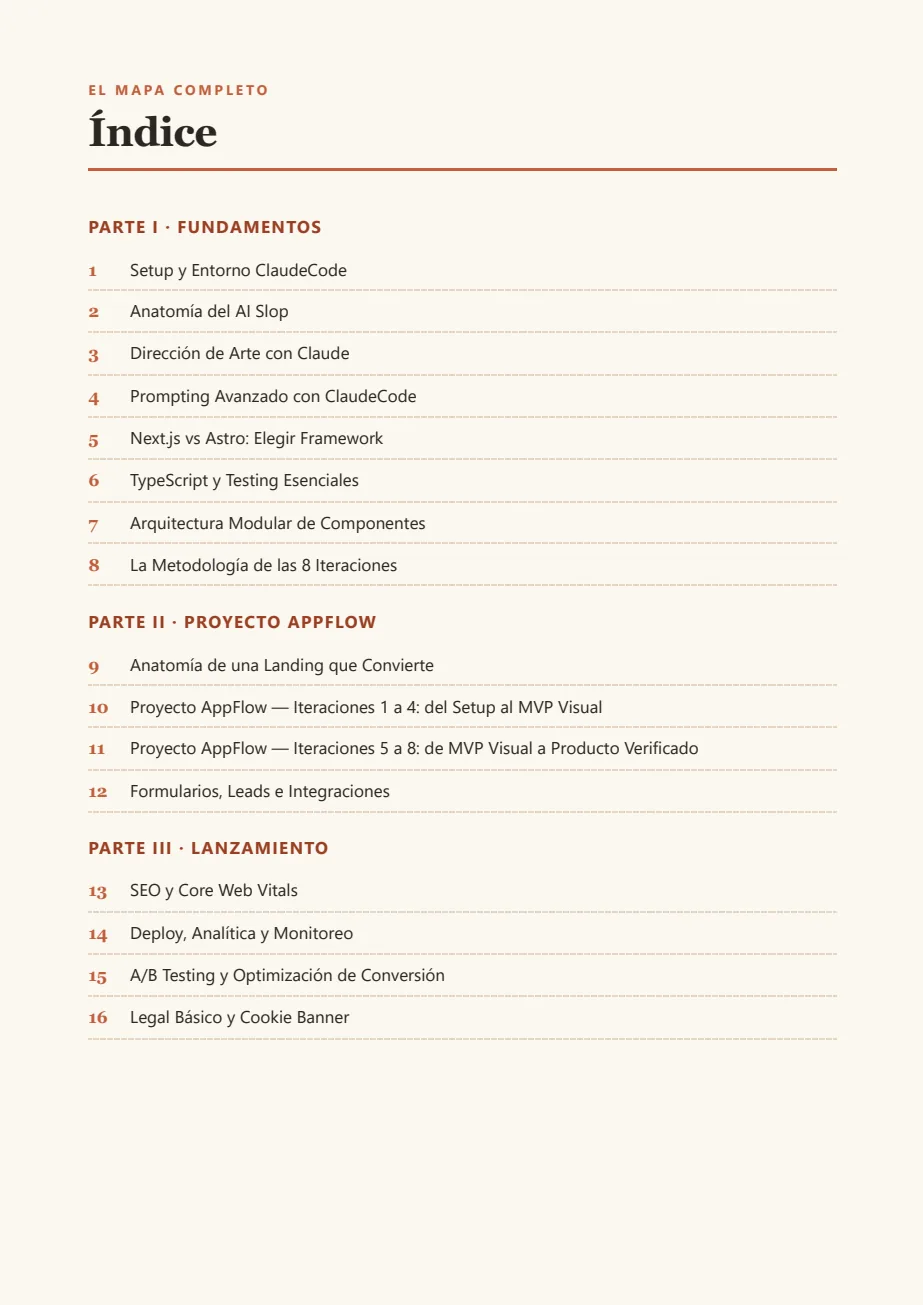
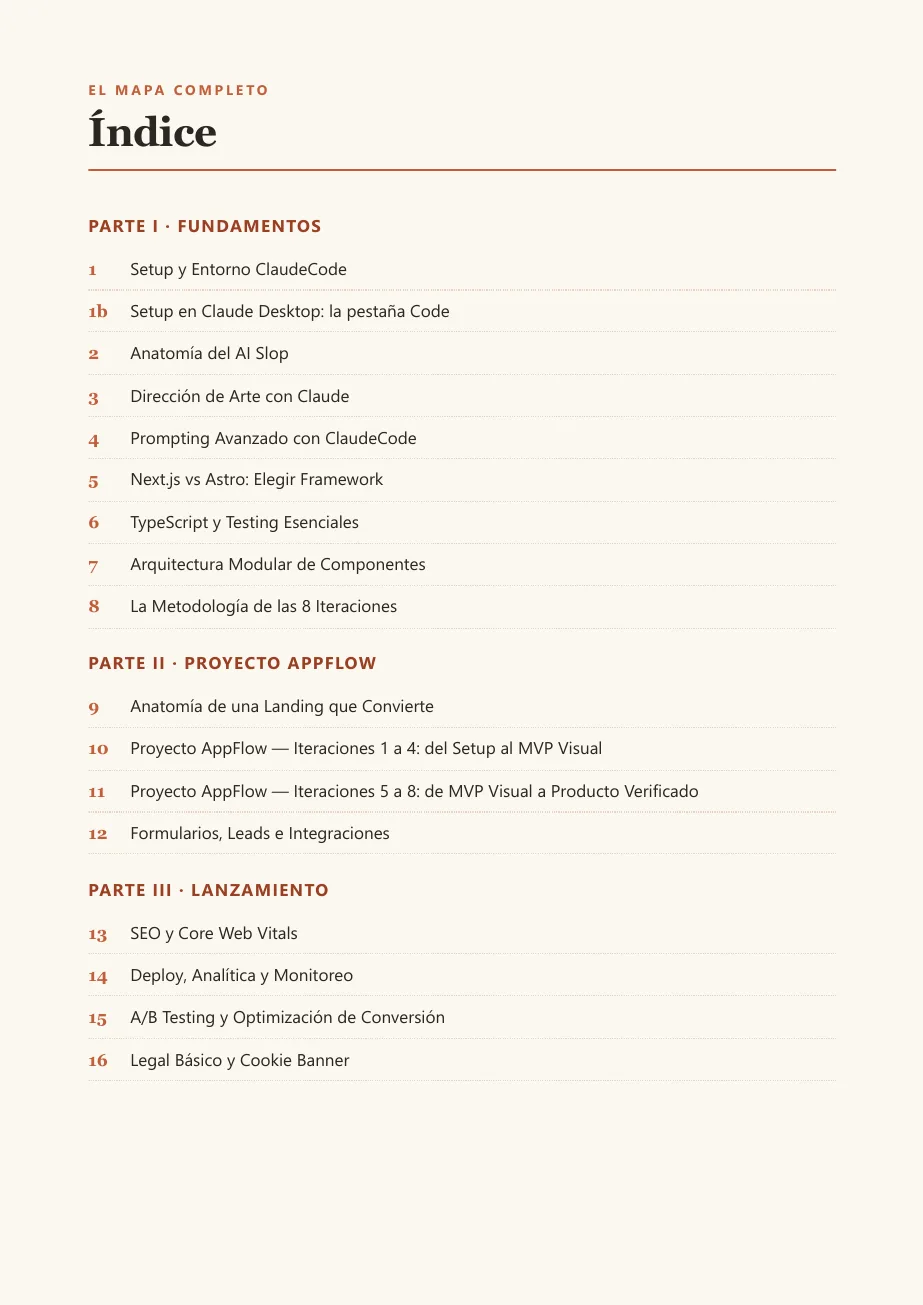
feat: actualiza fichas de ebooks a la edición con app de escritorio
Los siete ebooks incorporan la app de escritorio de Claude (pestaña Code,
Cowork, tareas programadas) en la edición de noviembre de 2026. Cambian
páginas y capítulos, así que las fichas, los combos y las estadísticas
del teatro de producto quedaban desfasados.

- Páginas: De Cero 190, Experto 73, Agentes 146, Webs 81/123/138/125.
- Capítulos: De Cero 26, Agentes 22, Webs 17/22/24/22.
- Combos recalculados (467, 263, 336 y 271 páginas).
- Vistas previas del índice regeneradas desde los PDF nuevos
  (De Cero, Webs parte 1 y Agentes).

diff --git a/lib/ebook-product-theater.ts b/lib/ebook-product-theater.ts
@@ -20,8 +20,8 @@ export type EbookProductTheaterContent = {
 export const EBOOK_PRODUCT_THEATER_CONTENT: Record<string, EbookProductTheaterContent> = {
   "ebook:de-cero-a-claude-en-una-semana": {
     stats: [
-      { value: "150+", label: "páginas" },
-      { value: "25", label: "capítulos" },
+      { value: "190", label: "páginas" },
+      { value: "26", label: "capítulos" },
       { value: "4", label: "niveles" },
       { value: "1", label: "ruta completa" },
     ],
@@ -31,7 +31,7 @@ export const EBOOK_PRODUCT_THEATER_CONTENT: Record<string, EbookProductTheaterCo
       description: "El contenido avanza desde los fundamentos de Claude.ai hasta Claude Code, agentes y API, con explicaciones prácticas y puntos de verificación.",
     },
     previews: [
-      { src: "/ebooks/previews/de-cero-claude/mapa.webp", alt: "Página real del índice de De cero a Claude en una semana", label: "El mapa completo", detail: "25 capítulos ordenados en cuatro niveles.", width: 923, height: 1305 },
+      { src: "/ebooks/previews/de-cero-claude/mapa.webp", alt: "Página real del índice de De cero a Claude en una semana", label: "El mapa completo", detail: "26 capítulos ordenados en cuatro niveles.", width: 923, height: 1305 },
       { src: "/ebooks/previews/de-cero-claude/claude-code.webp", alt: "Página real del capítulo Empezar con Claude Code", label: "Del navegador a la terminal", detail: "Instalación, requisitos y primera ejecución.", width: 923, height: 1305 },
       { src: "/ebooks/previews/de-cero-claude/api.webp", alt: "Página real del capítulo sobre la API de Claude", label: "Construir con Claude", detail: "API, streaming, herramientas, visión y SDKs.", width: 923, height: 1305 },
       { src: "/ebooks/previews/de-cero-claude/troubleshooting.webp", alt: "Página real de troubleshooting y mejores prácticas", label: "Resolver con criterio", detail: "Errores, límites, costes y buenas prácticas.", width: 923, height: 1305 },
@@ -54,7 +54,7 @@ export const EBOOK_PRODUCT_THEATER_CONTENT: Record<string, EbookProductTheaterCo
   },
   "ebook:claude-nivel-experto": {
     stats: [
-      { value: "71", label: "páginas" },
+      { value: "73", label: "páginas" },
       { value: "12", label: "capítulos" },
       { value: "3", label: "bonos" },
       { value: "16", label: "prompts" },
@@ -88,8 +88,8 @@ export const EBOOK_PRODUCT_THEATER_CONTENT: Record<string, EbookProductTheaterCo
   },
   "ebook:agentes-de-ia": {
     stats: [
-      { value: "137", label: "páginas" },
-      { value: "21", label: "capítulos" },
+      { value: "146", label: "páginas" },
+      { value: "22", label: "capítulos" },
       { value: "7", label: "partes" },
       { value: "1", label: "caso completo" },
     ],
@@ -122,8 +122,8 @@ export const EBOOK_PRODUCT_THEATER_CONTENT: Record<string, EbookProductTheaterCo
   },
   "ebook:creacion-de-webs-con-ia": {
     stats: [
-      { value: "70", label: "páginas" },
-      { value: "16", label: "capítulos" },
+      { value: "81", label: "páginas" },
+      { value: "17", label: "capítulos" },
       { value: "3", label: "partes" },
       { value: "1", label: "proyecto real" },
     ],
@@ -133,7 +133,7 @@ export const EBOOK_PRODUCT_THEATER_CONTENT: Record<string, EbookProductTheaterCo
       description: "Cada parte convierte una decisión abstracta en un paso ejecutable: qué pedir, qué revisar y cómo saber si el resultado está listo para avanzar.",
     },
     previews: [
-      { src: "/ebooks/previews/creacion-webs/indice.webp", alt: "Página real del índice del ebook Creación de Webs con IA", label: "El mapa completo", detail: "16 capítulos organizados en tres partes.", width: 923, height: 1305 },
+      { src: "/ebooks/previews/creacion-webs/indice.webp", alt: "Página real del índice del ebook Creación de Webs con IA", label: "El mapa completo", detail: "17 capítulos organizados en tres partes.", width: 923, height: 1305 },
       { src: "/ebooks/previews/creacion-webs/metodologia-8-iteraciones.webp", alt: "Página real sobre la metodología de ocho iteraciones del ebook", label: "Un método ejecutable", detail: "Ocho fases con checkpoints y verificación.", width: 923, height: 1305 },
       { src: "/ebooks/previews/creacion-webs/proyecto-appflow.webp", alt: "Página real del proyecto AppFlow desarrollado en el ebook", label: "Código y decisiones reales", detail: "AppFlow pasa del setup al MVP visual.", width: 923, height: 1305 },
       { src: "/ebooks/previews/creacion-webs/seo-core-web-vitals.webp", alt: "Página real del capítulo de SEO y Core Web Vitals del ebook", label: "Lanzamiento verificable", detail: "SEO, rendimiento y métricas explicadas con criterio.", width: 923, height: 1305 },

diff --git a/lib/web-ebook-series.ts b/lib/web-ebook-series.ts
@@ -23,7 +23,7 @@ export const WEB_EBOOK_PARTS: Record<string, WebEbookPart> = {
     eyebrow: "Ebook · CrececonIA · Colección Web · Parte 2",
     title: "Sitios Corporativos",
     titleAccent: "con IA.",
-    description: "Construye sitios corporativos completos con Astro, CMS y multi-idioma. 113 páginas y un proyecto real con Ardenza.",
+    description: "Construye sitios corporativos completos con Astro, CMS y multi-idioma. 123 páginas y un proyecto real con Ardenza.",
     introTitle: "El sitio que el cliente puede editar solo.",
     intro: "Parte 2 toma la metodología de construcción con IA y la lleva a sitios corporativos reales: arquitectura de información, contenido editable, SEO local, formularios, migraciones y entrega profesional.",
     stats: [
@@ -32,7 +32,7 @@ export const WEB_EBOOK_PARTS: Record<string, WebEbookPart> = {
       { value: "4", label: "partes" },
       { value: "1", label: "proyecto real" },
     ],
-    tocTitle: "21 capítulos para pasar de una referencia a un sitio corporativo que se puede mantener.",
+    tocTitle: "22 capítulos para pasar de una referencia a un sitio corporativo que se puede mantener.",
     sections: [
       { heading: "Parte I · Fundamentos", chapters: [
         { title: "Setup y dirección de arte", desc: "Configura el entorno y define una marca con criterio antes de generar componentes." },
@@ -74,7 +74,7 @@ export const WEB_EBOOK_PARTS: Record<string, WebEbookPart> = {
     eyebrow: "Ebook · CrececonIA · Colección Web · Parte 3",
     title: "eCommerce",
     titleAccent: "con IA.",
-    description: "Construye una tienda online con catálogo, carrito, checkout y pagos reales usando Next.js y ClaudeCode. 129 páginas y un proyecto real.",
+    description: "Construye una tienda online con catálogo, carrito, checkout y pagos reales usando Next.js y ClaudeCode. 138 páginas y un proyecto real.",
     introTitle: "Los flujos donde un bug cuesta dinero.",
     intro: "Parte 3 documenta la construcción de TechStore: catálogo, filtros, carrito, checkout, inventario, pagos, webhooks, emails, métricas y operación de una tienda que debe funcionar de verdad.",
     stats: [
@@ -83,7 +83,7 @@ export const WEB_EBOOK_PARTS: Record<string, WebEbookPart> = {
       { value: "4", label: "partes" },
       { value: "1", label: "proyecto real" },
     ],
-    tocTitle: "23 capítulos para construir una tienda, cobrar y operar después del lanzamiento.",
+    tocTitle: "24 capítulos para construir una tienda, cobrar y operar después del lanzamiento.",
     sections: [
       { heading: "Parte I · Fundamentos", chapters: [
         { title: "Setup, prompting y dirección de arte", desc: "Define el sistema visual y el entorno antes de entrar en los flujos de dinero." },
@@ -125,7 +125,7 @@ export const WEB_EBOOK_PARTS: Record<string, WebEbookPart> = {
     eyebrow: "Ebook · CrececonIA · Colección Web · Parte 4",
     title: "SaaS y Dashboards",
     titleAccent: "con IA.",
-    description: "Construye aplicaciones SaaS con autenticación, datos en vivo y multi-tenancy usando Next.js y ClaudeCode. 114 páginas y un proyecto real.",
+    description: "Construye aplicaciones SaaS con autenticación, datos en vivo y multi-tenancy usando Next.js y ClaudeCode. 125 páginas y un proyecto real.",
     introTitle: "Cuando una web se convierte en producto.",
     intro: "Parte 4 lleva la metodología a una aplicación con usuarios, roles, datos privados, dashboards, actualizaciones en tiempo real, límites y seguridad multi-tenant.",
     stats: [
@@ -134,7 +134,7 @@ export const WEB_EBOOK_PARTS: Record<string, WebEbookPart> = {
       { value: "3", label: "partes" },
       { value: "1", label: "proyecto real" },
     ],
-    tocTitle: "21 capítulos para pasar de una interfaz bonita a un producto SaaS seguro y operable.",
+    tocTitle: "22 capítulos para pasar de una interfaz bonita a un producto SaaS seguro y operable.",
     sections: [
       { heading: "Parte I · Fundamentos", chapters: [
         { title: "Setup y arquitectura de producto", desc: "Decide qué pertenece a una app SaaS y qué debe quedar fuera del MVP." },

diff --git a/lib/ebook-catalog.ts b/lib/ebook-catalog.ts
@@ -79,7 +79,7 @@ export const EBOOK_CATALOG: EbookCatalogEntry[] = [
     coverSrc: "/ebooks/de-cero-a-claude-en-una-semana.jpg",
     active: true,
     tierPrices: { superEarly: 10800, early: 17900, regular: 27000 },
-    storeProfile: { level: "Base", outcome: "Dominar Claude desde cero y usarlo con un método claro.", audience: "Si estás empezando o todavía lo usas como un chat.", pageCount: 150 },
+    storeProfile: { level: "Base", outcome: "Dominar Claude desde cero y usarlo con un método claro.", audience: "Si estás empezando o todavía lo usas como un chat.", pageCount: 190 },
     // Ya está en venta — sin visibleFrom, siempre visible.
   },
   {
@@ -90,7 +90,7 @@ export const EBOOK_CATALOG: EbookCatalogEntry[] = [
     coverSrc: "/ebooks/claude-nivel-experto.jpg",
     active: true,
     tierPrices: { superEarly: 9700, early: 13700, regular: 19700 },
-    storeProfile: { level: "Avanzado", outcome: "Pasar de conversar con Claude a operarlo con autonomía.", audience: "Si ya tienes experiencia y quieres profundizar.", pageCount: 71 },
+    storeProfile: { level: "Avanzado", outcome: "Pasar de conversar con Claude a operarlo con autonomía.", audience: "Si ya tienes experiencia y quieres profundizar.", pageCount: 73 },
     visibleFrom: LANZAMIENTO_2026_08_07,
   },
   {
@@ -101,7 +101,7 @@ export const EBOOK_CATALOG: EbookCatalogEntry[] = [
     coverSrc: "/ebooks/agentes-de-ia.jpg",
     active: true,
     tierPrices: { superEarly: 10800, early: 17900, regular: 27000 },
-    storeProfile: { level: "Negocio", outcome: "Diseñar agentes que automaticen trabajo real del negocio.", audience: "Si diriges un negocio y no quieres programar.", pageCount: 137 },
+    storeProfile: { level: "Negocio", outcome: "Diseñar agentes que automaticen trabajo real del negocio.", audience: "Si diriges un negocio y no quieres programar.", pageCount: 146 },
     visibleFrom: LANZAMIENTO_2026_08_07,
   },
   {
@@ -112,7 +112,7 @@ export const EBOOK_CATALOG: EbookCatalogEntry[] = [
     coverSrc: "/ebooks/creacion-de-webs-con-ia.jpg",
     active: true,
     tierPrices: { superEarly: 9700, early: 13700, regular: 19700 },
-    storeProfile: { level: "Constructor", outcome: "Diseñar y lanzar un sitio completo con IA paso a paso.", audience: "Si quieres construir una web mediante un proyecto real.", pageCount: 70 },
+    storeProfile: { level: "Constructor", outcome: "Diseñar y lanzar un sitio completo con IA paso a paso.", audience: "Si quieres construir una web mediante un proyecto real.", pageCount: 81 },
     visibleFrom: LANZAMIENTO_2026_08_07,
     series: { name: "Creación de Webs con IA", part: 1 },
   },
@@ -128,7 +128,7 @@ export const EBOOK_CATALOG: EbookCatalogEntry[] = [
       level: "Constructor",
       outcome: "Construir sitios corporativos editables, escalables y listos para clientes.",
       audience: "Si quieres crear sitios corporativos con Astro, CMS y contenido multi-idioma.",
-      pageCount: 113,
+      pageCount: 123,
     },
     visibleFrom: LANZAMIENTO_2026_08_07,
     series: { name: "Creación de Webs con IA", part: 2 },
@@ -145,7 +145,7 @@ export const EBOOK_CATALOG: EbookCatalogEntry[] = [
       level: "Constructor",
       outcome: "Construir un eCommerce completo con catálogo, carrito, checkout y pagos reales.",
       audience: "Si quieres desarrollar tiendas online con Next.js y validar flujos que involucran dinero.",
-      pageCount: 129,
+      pageCount: 138,
     },
     visibleFrom: LANZAMIENTO_2026_08_07,
     series: { name: "Creación de Webs con IA", part: 3 },
@@ -162,7 +162,7 @@ export const EBOOK_CATALOG: EbookCatalogEntry[] = [
       level: "Constructor",
       outcome: "Construir productos SaaS con autenticación, datos en vivo y multi-tenancy.",
       audience: "Si quieres pasar de una landing a una aplicación web con usuarios y datos reales.",
-      pageCount: 114,
+      pageCount: 125,
     },
     visibleFrom: LANZAMIENTO_2026_08_07,
     series: { name: "Creación de Webs con IA", part: 4 },

diff --git a/lib/ebook-bundles.ts b/lib/ebook-bundles.ts
@@ -122,7 +122,7 @@ export const EBOOK_BUNDLES: EbookBundle[] = [
   {
     slug: "coleccion-web",
     title: "Colección Web Completa",
-    pitch: "Las cuatro partes para construir sitios, tiendas y productos web con IA. 426 páginas de proyectos reales con descuento por colección.",
+    pitch: "Las cuatro partes para construir sitios, tiendas y productos web con IA. 467 páginas de proyectos reales con descuento por colección.",
     resources: [
       "ebook:creacion-de-webs-con-ia",
       "ebook:creacion-de-webs-con-ia-parte-2",
@@ -133,19 +133,19 @@ export const EBOOK_BUNDLES: EbookBundle[] = [
   {
     slug: "ruta-operador",
     title: "Ruta Operador",
-    pitch: "Dominar la herramienta de principio a fin. 245 páginas, la progresión más limpia del catálogo.",
+    pitch: "Dominar la herramienta de principio a fin. 263 páginas, la progresión más limpia del catálogo.",
     resources: ["ebook:de-cero-a-claude-en-una-semana", "ebook:claude-nivel-experto"],
   },
   {
     slug: "ruta-negocio",
     title: "Ruta Negocio",
-    pitch: "Para dueños de negocio, sin programar. 311 páginas de la base más su aplicación directa.",
+    pitch: "Para dueños de negocio, sin programar. 336 páginas de la base más su aplicación directa.",
     resources: ["ebook:de-cero-a-claude-en-una-semana", "ebook:agentes-de-ia"],
   },
   {
     slug: "ruta-constructor",
     title: "Ruta Constructor",
-    pitch: "Para quien quiere construir y lanzar sitios. 244 páginas, de los fundamentos al proyecto real.",
+    pitch: "Para quien quiere construir y lanzar sitios. 271 páginas, de los fundamentos al proyecto real.",
     resources: ["ebook:de-cero-a-claude-en-una-semana", "ebook:creacion-de-webs-con-ia"],
   },
   {

diff --git a/app/ebook/agentes-de-ia/page.tsx b/app/ebook/agentes-de-ia/page.tsx
@@ -86,7 +86,7 @@ const FAQS = [
   },
   {
     q: "¿Qué trae además de los capítulos?",
-    a: "21 capítulos en 7 partes, 7 anexos, y un caso de negocio completo documentado de punta a punta.",
+    a: "22 capítulos en 7 partes, 7 anexos, y un caso de negocio completo documentado de punta a punta.",
   },
   {
     q: "¿En qué formato viene?",
@@ -149,7 +149,7 @@ export default async function AgentesDeIAPage({
         eyebrow="Ebook · CrececonIA · Aplicación al negocio"
         title="Agentes de IA"
         titleAccent="para tu negocio."
-        description="Automatiza tareas con agentes inteligentes que aprenden a trabajar por ti dentro de Claude. 137 páginas, para dueños de negocio, sin programar."
+        description="Automatiza tareas con agentes inteligentes que aprenden a trabajar por ti dentro de Claude. 146 páginas, para dueños de negocio, sin programar."
         coverSrc={entry.coverSrc}
         coverAlt="Portada del ebook Agentes de IA para tu Negocio"
       />
@@ -186,7 +186,7 @@ export default async function AgentesDeIAPage({
       />
 
       <EbookGenericTOC
-        title={<>7 partes, 21 capítulos,{" "}<em style={{ fontStyle: "italic" }}>un caso real de punta a punta.</em></>}
+        title={<>7 partes, 22 capítulos,{" "}<em style={{ fontStyle: "italic" }}>un caso real de punta a punta.</em></>}
         sections={SECTIONS}
       />
 

diff --git a/app/ebook/creacion-de-webs-con-ia/page.tsx b/app/ebook/creacion-de-webs-con-ia/page.tsx
@@ -131,7 +131,7 @@ export default async function CreacionDeWebsConIAPage({
         eyebrow="Ebook · CrececonIA · Vertical técnica · Parte 1"
         title="Creación de Webs"
         titleAccent="con IA."
-        description="Una metodología de ocho iteraciones para diseñar, construir y publicar una web con Claude Code. 70 páginas y un proyecto real, desde el setup hasta el lanzamiento."
+        description="Una metodología de ocho iteraciones para diseñar, construir y publicar una web con Claude Code. 81 páginas y un proyecto real, desde el setup hasta el lanzamiento."
         coverSrc={entry.coverSrc}
         coverAlt="Portada del ebook Creación de Webs con IA"
       />
@@ -170,7 +170,7 @@ export default async function CreacionDeWebsConIAPage({
       />
 
       <EbookGenericTOC
-        title={<>16 capítulos, 3 partes,{" "}<em style={{ fontStyle: "italic" }}>un proyecto real de punta a punta.</em></>}
+        title={<>17 capítulos, 3 partes,{" "}<em style={{ fontStyle: "italic" }}>un proyecto real de punta a punta.</em></>}
         sections={SECTIONS}
       />
 

diff --git a/app/ebook/claude-nivel-experto/page.tsx b/app/ebook/claude-nivel-experto/page.tsx
@@ -107,7 +107,7 @@ export default async function ClaudeNivelExpertoPage({
         eyebrow="Ebook · CrececonIA · Upgrade"
         title="Claude a Nivel"
         titleAccent="Experto."
-        description="Las técnicas que usan los power users para dejar de conversar con Claude y ponerlo a trabajar solo. 71 páginas directas, sin relleno."
+        description="Las técnicas que usan los power users para dejar de conversar con Claude y ponerlo a trabajar solo. 73 páginas directas, sin relleno."
         coverSrc={entry.coverSrc}
         coverAlt="Portada del ebook Claude a Nivel Experto"
       />

diff --git a/components/EbookHero.tsx b/components/EbookHero.tsx
@@ -124,7 +124,7 @@ export default function EbookHero() {
             >
               La guía práctica para dominar Claude Code sin perder semanas
               probando. Desde la instalación hasta prompts que generan código
-              en producción — todo en 150+ páginas.
+              en producción — todo en 190 páginas.
             </motion.p>
 
             <motion.div

diff --git a/app/ebook/de-cero-a-claude-en-una-semana/page.tsx b/app/ebook/de-cero-a-claude-en-una-semana/page.tsx
@@ -112,7 +112,7 @@ function EbookProblem() {
             }}
           >
             Este ebook condensa 6 meses de experimentación real con Claude Code
-            en 150+ páginas. La ruta que me habría gustado tener cuando empecé.
+            en 190 páginas. La ruta que me habría gustado tener cuando empecé.
           </p>
         </div>
       </div>

diff --git a/components/EbookImmersion.tsx b/components/EbookImmersion.tsx
@@ -24,7 +24,7 @@ import { EBOOK_ACCENT, EBOOK_COLD_BG } from "@/lib/ebook-theme";
 const LINES: [string, string, string] = [
   "Este ebook condensa 6 meses",
   "de experimentación real con Claude Code",
-  "en 150+ páginas.",
+  "en 190 páginas.",
 ];
 const DETAIL = "PDF · Descarga inmediata · Garantía de devolución";
 const ACCENT = EBOOK_ACCENT;
